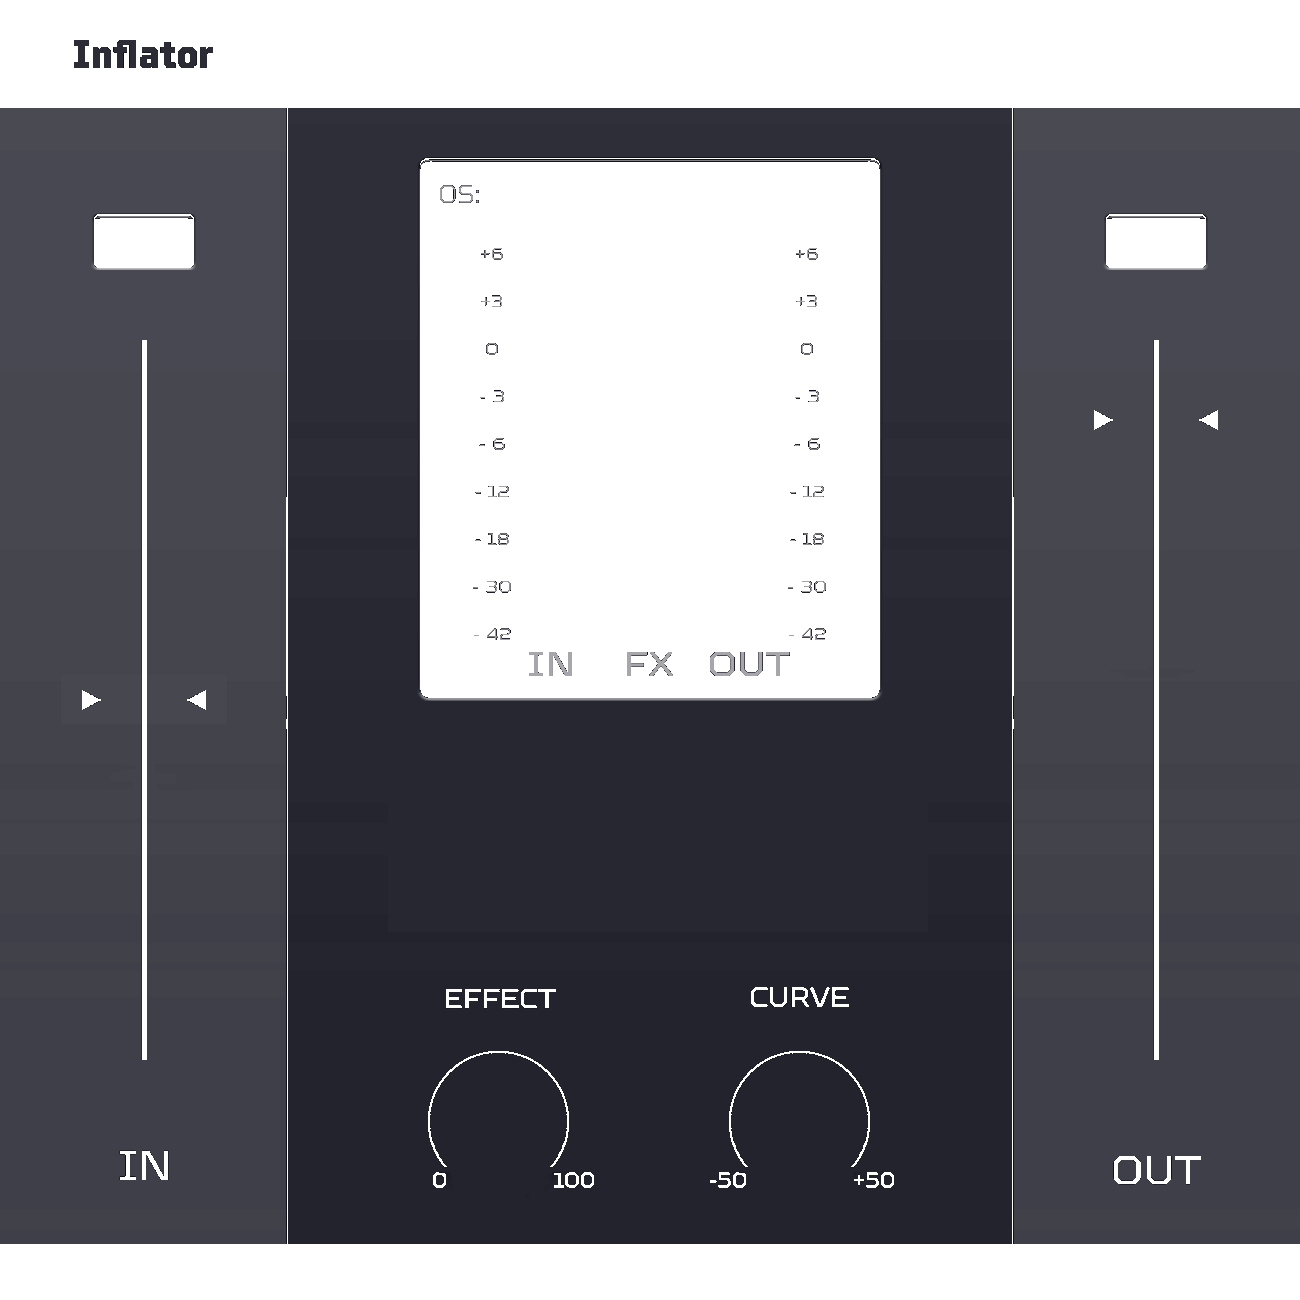
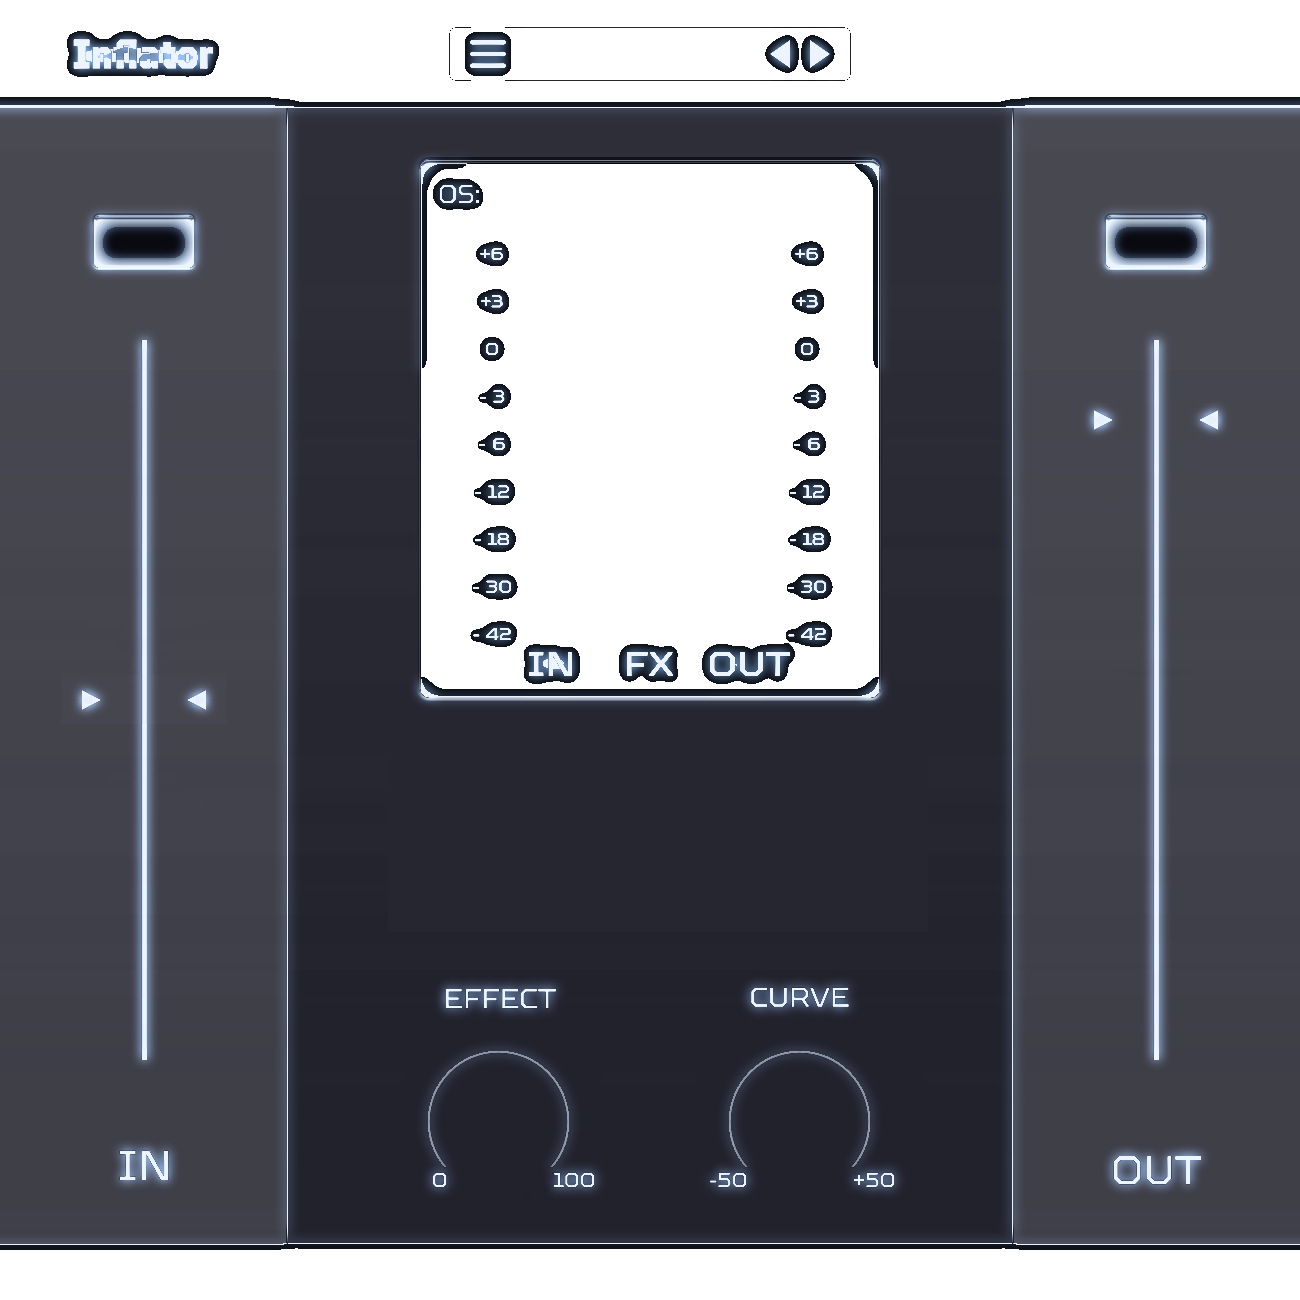
fix(skin): neon-white glow on Twarch text/lines for readability
Dark engraved panel text (IN/OUT/EFFECT/CURVE, knob scales, title, fader
tracks, meter frame) was unreadable on the navy recolor. New ink-detection
recolor (tools/recolor_twarch_glow.py) renders those features as glowing
neon-white. Also brightened the uidesc dropdown/value font-colors (OS/Phase/
OS-Offline menus, dB displays) from dark tokens to white.

diff --git a/tools/recolor_twarch_glow.py b/tools/recolor_twarch_glow.py
@@ -1,0 +1,48 @@
+"""Recolor twarch_background.png to the Arcorrect navy palette with NEON-WHITE GLOW
+on the engraved text/lines. Source = original (git main) background; output = RGBA
+with transparent voids (for the starfield) and glowing ink. Tunable params at top."""
+import numpy as np
+from PIL import Image, ImageFilter
+
+SRC = 'tools/_orig_bg.png'                 # original upstream background
+OUT = 'resource/twarch/twarch_background.png'
+NAVY  = np.array([0x10, 0x10, 0x1C], np.float32)   # panel base
+WHITE = np.array([255, 255, 255], np.float32)
+HALO  = np.array([140, 195, 255], np.float32)      # cyan-blue glow halo
+CORE  = np.array([235, 244, 255], np.float32)      # neon-white text core
+LOCAL_R = 10        # local-mean radius (panel vs ink)
+GLOW_R  = 5         # glow halo blur radius
+GLOW_GAIN = 1.15    # halo brightness
+EDGE    = 6         # ink/contrast threshold
+NORM    = 38.0      # ink strength normalizer (smaller = stronger text)
+
+arr = np.asarray(Image.open(SRC).convert('RGB')).astype(np.float32)
+L = 0.299*arr[..., 0] + 0.587*arr[..., 1] + 0.114*arr[..., 2]
+local = np.asarray(Image.fromarray(L.astype(np.uint8)).filter(
+    ImageFilter.GaussianBlur(LOCAL_R))).astype(np.float32)
+
+# dark ink on bright panel + light text on dark window
+ink  = np.where(local > 90, np.clip(local - L - EDGE, 0, None), 0)
+lite = np.where(local < 95, np.clip(L - local - EDGE, 0, None), 0)
+text = np.clip(np.maximum(ink, lite) / NORM, 0, 1)            # 0..1 text strength
+
+# navy luminance-preserving base for non-text panel
+Ln = L[..., None]
+base = np.where(Ln <= 128, NAVY*(Ln/128.0),
+                NAVY + (WHITE-NAVY)*((Ln-128)/127.0))
+
+# glow halo = blurred text
+glow = np.asarray(Image.fromarray((text*255).astype(np.uint8)).filter(
+    ImageFilter.GaussianBlur(GLOW_R))).astype(np.float32)/255.0
+
+out = base + HALO[None, None, :]*glow[..., None]*GLOW_GAIN     # add halo (lighten)
+out = out*(1-text[..., None]) + CORE[None, None, :]*text[..., None]  # crisp core
+out = np.clip(out, 0, 255).astype(np.uint8)
+
+# void keying for starfield (dark flat, low chroma) — but never key glowing text
+chroma = arr.max(2) - arr.min(2)
+void = (L < 52) & (chroma < 18) & (text < 0.05) & (glow < 0.05)
+alpha = np.where(void, 0, 255).astype(np.uint8)
+Image.fromarray(np.dstack([out, alpha]), 'RGBA').save(OUT)
+print('wrote', OUT, '| text px %:', round(100*(text > 0.15).mean(), 2),
+      '| void px %:', round(100*void.mean(), 2))
